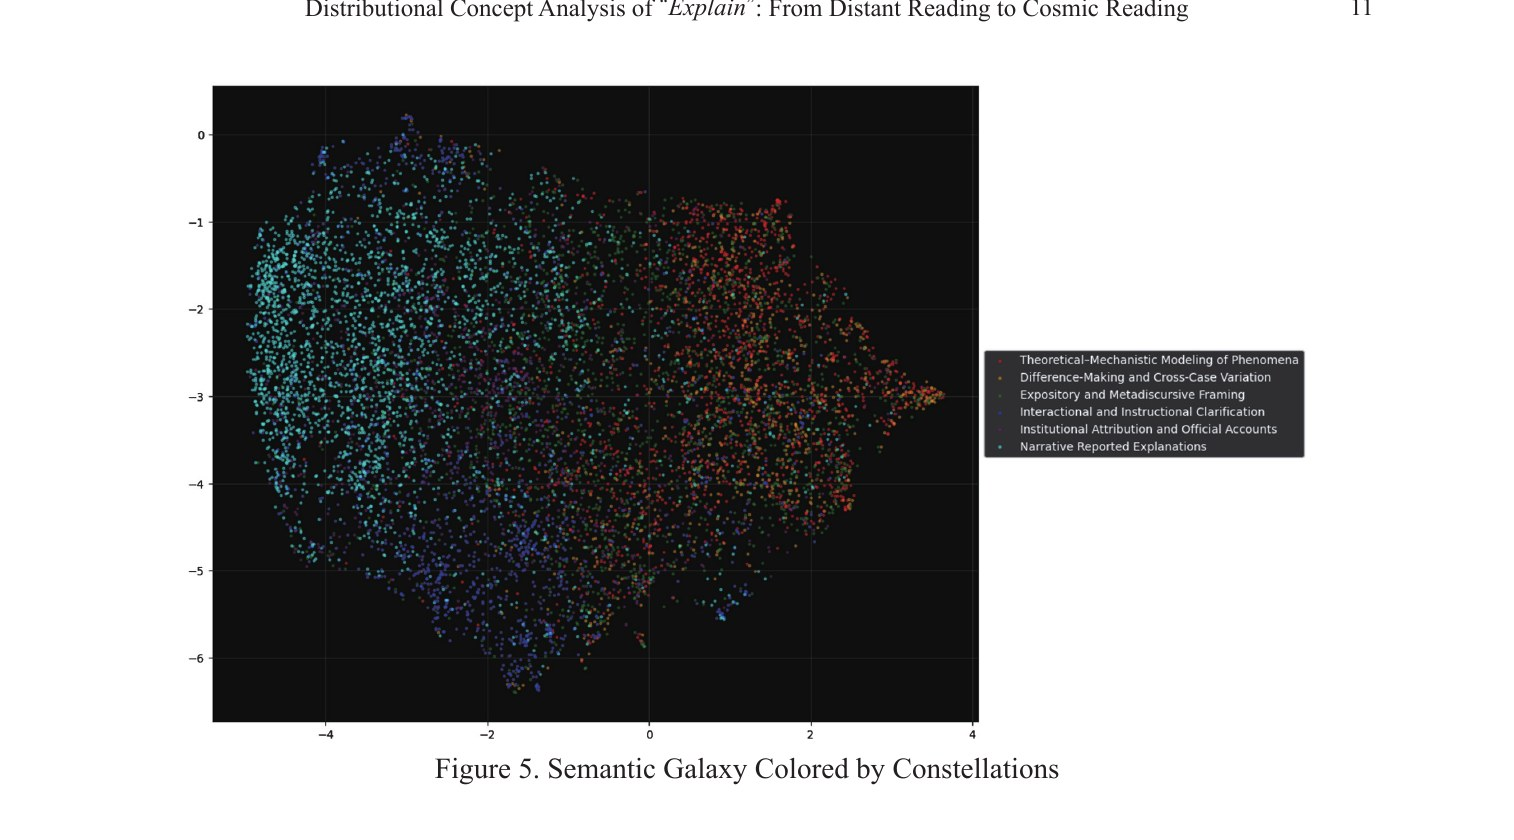
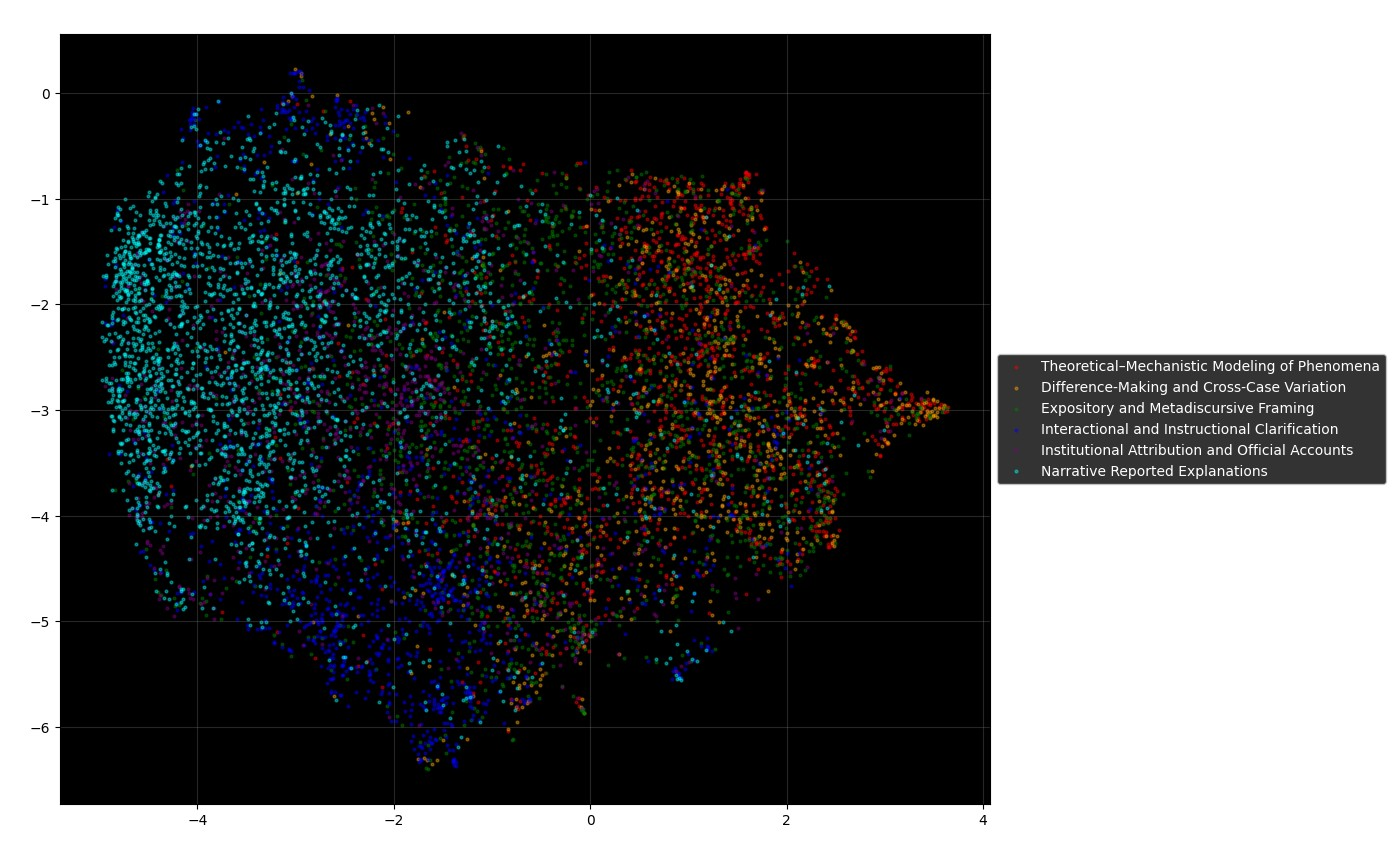
Expand DCA section in session 6 with v2 manuscript content
Integrate the v2 manuscript (Distributional Concept Analysis of "Explain"
- v2.docx) into section 6.10:

- Add an explicit theoretical-background box explaining the operational
  definition of "meaning" and "function" in distributional semantics,
  and the methodological shift from Moretti's distant reading (surface
  frequency/genre metrics) to cosmic reading (semantic topography in
  high-dim embedding space).
- Strengthen the research-question box with the four classical
  philosophical accounts of explanation (Hempel/Oppenheim, Salmon, van
  Fraassen, Machamer-Darden-Craver) and the bridge from Overton (2013).
- Rewrite the findings box around the permeability/continuity claim:
  the six constellations form a connected chain (scientific →
  metadiscursive → institutional → narrative), not isolated categories.
- Add a constellation-style summary box derived from GPT-5's
  constellation_styles output (lexical/grammatical patterns per
  constellation, with corpus examples).
- Add an anti-essentialist-implications box and pointer to future work
  on other explanation verbs (justify, clarify, describe).
- Append OSF data-and-reproducibility link from the manuscript.

Also swap the figure assets to the cleaner manuscript embeddings (no
PDF running headers) — fig1-fig6 now come from word/media of the v2
docx.

diff --git a/sessions/6.html b/sessions/6.html
@@ -702,7 +702,18 @@
 
           <div class="info-box mb-4">
             <p class="text-xs font-bold text-gray-700 mb-2">研究の問い</p>
-            <p class="text-sm text-gray-600">「説明する（explain）」とは、自然言語のなかで実際にどのような行為として現れているのか？　科学哲学では Hempel & Oppenheim の演繹的法則的モデル、Salmon の因果機構説、van Fraassen の語用論的説明論、Machamer–Darden–Craver のメカニズム説など多くの理論があるが、それらは現実の言語使用のどの部分を捉えているのか？──この問いに、コーパスデータから定量的に答えようとした研究です。</p>
+            <p class="text-sm text-gray-600">「説明する（explain）」とは、自然言語のなかで実際にどのような行為として現れているのか？　科学哲学では Hempel & Oppenheim (1948) の<strong class="text-gray-700">演繹的法則的モデル（deductive-nomological model）</strong>、Salmon (1984) の<strong class="text-gray-700">因果機構説（causal–mechanistic account）</strong>、van Fraassen (1980) の<strong class="text-gray-700">語用論的説明論（pragmatic theory）</strong>、Machamer–Darden–Craver (2000) の<strong class="text-gray-700">メカニズム説（mechanistic model）</strong>など多くの理論が提案されてきましたが、これらは「説明とは何を説明することか」についての前提が互いに異なり、自然言語のなかで <em>explain</em> がどう現れているかを統一的に捉えていません。Overton (2013) はこの問題意識から「<em>explain</em> in scientific discourse」というコーパス研究を行いましたが、対象は科学論文に限られていました。本研究はその対象を BNC 全体（科学・物語・制度・対話など全ジャンル）に拡張し、コーパスデータから<strong class="text-gray-800">定量的かつ分布的に</strong>説明実践の多様性を明らかにすることを目指します。</p>
+          </div>
+
+          <div class="info-box mb-4">
+            <p class="text-xs font-bold text-gray-700 mb-2">理論的背景：distant reading から cosmic reading へ</p>
+            <p class="text-sm text-gray-600 mb-2">本研究は<strong class="text-gray-700">分布意味論（distributional semantics, Lenci 2018）</strong>に基づき、語の「意味」と「機能」を次のように操作的に定義します：</p>
+            <ul class="text-sm text-gray-600 space-y-1 mb-2">
+              <li>・<strong class="text-gray-700">意味（meaning）</strong>＝高次元意味空間における<em>共起分布の総体</em>。すなわち、その語が現れる文脈の全体的なパターン。</li>
+              <li>・<strong class="text-gray-700">機能（function）</strong>＝特定の談話文脈における<em>語用論的・コミュニケーション的役割</em>。文脈化された埋め込みは、語が働く言説環境を構造的にエンコードする。</li>
+            </ul>
+            <p class="text-sm text-gray-600 mb-2">この立場は、Moretti (2013) の <strong class="text-gray-700">distant reading（遠読）</strong>──個々のテキストを精読するのではなく、大規模コーパスの構造的・分布的パターンを観察するアプローチ──の延長線上にあります。ただし distant reading は<strong class="text-gray-700">語の頻度やジャンル分布など表層的な指標</strong>に焦点を当てがちで、より深い「意味的分布」を捉えるには不十分でした。</p>
+            <p class="text-sm text-gray-600">本研究では、文単位の文脈化埋め込み・確率的トピックモデル・LLM を統合することで、語の「意味的地形（semantic topography）」そのものを観察可能にする手法を提案し、これを <strong class="text-gray-800">cosmic reading（宇宙的読解）</strong>と名づけます。テキストを「離れて眺める」だけでなく、テキストが埋め込まれた<strong class="text-gray-800">高次元意味空間を「銀河」として観察し、クラスター・帯・空隙・「星座」を読み解く</strong>──これが distant reading から cosmic reading への方法論的なシフトです。さらに Machery (2016) の <em>experimental philosophy of science</em>（実験的科学哲学）の主張、すなわち「概念使用の多様性は大規模な言語・行動データで実証されるべき」とも理論的に接続します。</p>
           </div>
 
           <div class="info-box mb-4">
@@ -769,8 +780,33 @@
           <p class="text-sm text-gray-600 leading-relaxed mb-4"><strong class="text-gray-800">Figure 6</strong> は、各 constellation に属する CTM トピックの重心を線で結ぶことで、銀河の中の「星座図」を描き出した図です。<strong class="text-gray-700">Theoretical–Mechanistic Modeling of Phenomena</strong>（赤）は右上に、<strong class="text-gray-700">Difference-Making and Cross-Case Variation</strong>（オレンジ）は中央やや右に、<strong class="text-gray-700">Expository and Metadiscursive Framing</strong>（黄緑）は中央に、<strong class="text-gray-700">Interactional and Instructional Clarification</strong>（水色）は下方に、<strong class="text-gray-700">Institutional Attribution and Official Accounts</strong>（マゼンタ）は中央上に、<strong class="text-gray-700">Narrative Reported Explanations</strong>（青）は左に、それぞれ「星座」のような位相をもって配置されます。Figure 5 で見えた<strong class="text-gray-800">「説明の 6 つの様式」</strong>が、互いに関係づけられた星座群として一望できるわけです。</p>
 
           <div class="info-box mb-4">
-            <p class="text-xs font-bold text-gray-700 mb-2">主な発見</p>
-            <p class="text-sm text-gray-600">6 つの図を通して浮かび上がるのは、<em>explain</em> が単一の本質を持つ語ではなく、<strong class="text-gray-800">6 つの説明モードからなる多中心的な意味エコロジー</strong>を形成しているということです。これは伝統的な科学哲学（演繹的法則的モデル、因果機構説、語用論的説明論など）が一語の中に同居していると想定してこなかった、より広い<strong class="text-gray-800">「説明実践のエコロジー」</strong>を可視化するものです。各 constellation は特徴的な語彙・文法・談話パターンをもち、ジャンル・社会的文脈と緊密に結びついていることが、図 4 のヒートマップや図 6 の星座配置から確認できます。</p>
+            <p class="text-xs font-bold text-gray-700 mb-2">主な発見：分離ではなく「浸透性のある連続体」</p>
+            <p class="text-sm text-gray-600 mb-2">6 つの図を通して浮かび上がるのは、<em>explain</em> が単一の本質を持つ語ではなく、<strong class="text-gray-800">6 つの説明モードからなる多中心的な意味エコロジー</strong>を形成しているということです。重要な発見は、6 つの constellation が<strong class="text-gray-800">鋭く分離した離散カテゴリではなく、滑らかに移行しあう「浸透性のある（permeable）連続体」</strong>を形成している点です。論文では次のような「連鎖」が指摘されています：</p>
+            <ul class="text-sm text-gray-600 space-y-1 mb-2">
+              <li>・<strong class="text-gray-700">科学的説明</strong> は自然に <strong class="text-gray-700">メタ言説的解説</strong> へとつながる（理論モデル → 教科書的説明）</li>
+              <li>・<strong class="text-gray-700">メタ言説的解説</strong> は <strong class="text-gray-700">制度的帰責</strong> へと移行する（学術的解説 → 公式説明）</li>
+              <li>・<strong class="text-gray-700">制度的帰責</strong> は <strong class="text-gray-700">物語的報告</strong> へと滑り込む（公式発言 → 報道叙述）</li>
+            </ul>
+            <p class="text-sm text-gray-600">この連続性こそが、<em>explain</em> が単なる多義語（polysemy）ではなく、<strong class="text-gray-800">社会的実践に根ざした分布的・多中心的な構造</strong>であることの証拠です。図 4 のヒートマップで象限間にゼロでない「中間値」のセルが多数あること、図 6 の星座が密接に配置されていることが、この「橋渡し」を視覚的に裏付けます。</p>
+          </div>
+
+          <div class="info-box mb-4">
+            <p class="text-xs font-bold text-gray-700 mb-2">constellation 別のスタイル特徴</p>
+            <p class="text-sm text-gray-600 mb-2">GPT-5 が各 constellation の代表文を分析して生成した<strong class="text-gray-700">スタイル要約（constellation_styles_gpt5.csv）</strong>からは、各 constellation が<strong class="text-gray-700">特徴的な語彙・文法・談話パターン</strong>をもつことが分かります：</p>
+            <ul class="text-sm text-gray-600 space-y-2">
+              <li>・<strong class="text-gray-700">Theoretical–Mechanistic</strong>：因果・モデルベースの語彙で自然・社会現象の根底にあるメカニズムを記述（"This theory <em>explains</em> the correlation between the two variables"）。</li>
+              <li>・<strong class="text-gray-700">Difference-Making</strong>：横断的な比較、説明の十分性、相互作用要因を強調する社会科学的論証。</li>
+              <li>・<strong class="text-gray-700">Expository / Metadiscursive</strong>：<em>define</em> / <em>explain</em> / <em>justify</em> といった<strong class="text-gray-700">談話組織化動詞</strong>を用いて読者を概念的領域に案内する学術・政策的散文。</li>
+              <li>・<strong class="text-gray-700">Interactional / Instructional</strong>：命令形・明確化要求を多用し、対人的に理解を調整する（"Please <em>explain</em> what you mean by that"）。</li>
+              <li>・<strong class="text-gray-700">Institutional Attribution</strong>：<em>explain</em> を<strong class="text-gray-700">報告動詞（reporting verb）</strong>として用い、公的説明責任を演じる（"The minister <em>explained</em> the government's new strategy"）。</li>
+              <li>・<strong class="text-gray-700">Narrative Reported</strong>：過去形・受動・完了相を用いて、物語世界内に登場人物の動機・意図・因果推論を埋め込む（"He <em>explained</em> that he had been waiting for hours"）。</li>
+            </ul>
+          </div>
+
+          <div class="info-box mb-4">
+            <p class="text-xs font-bold text-gray-700 mb-2">含意：「説明」の脱本質主義的再概念化</p>
+            <p class="text-sm text-gray-600 mb-2">これらの結果は、<strong class="text-gray-800">説明（explanation）を単一の論理形式・固定された辞書定義に還元しようとする伝統的な哲学的アプローチへの再考</strong>を促します。<em>explain</em> の自然言語使用は、科学的推論・制度的正当化・対人的調整・物語的意味づけ──いずれも「説明」と呼ばれる行為──を含む多中心的な現象であり、その意味は<strong class="text-gray-800">談話文脈に応じて連続的にシフトする</strong>のです。</p>
+            <p class="text-sm text-gray-600">この知見は、Machery (2016) の「実験的科学哲学」、Overton (2013) のコーパスベース科学的説明研究、そして Moretti (2013) の distant reading を統合的に拡張するものとして、<strong class="text-gray-700">説明研究・コーパス言語学・デジタル人文学・科学技術論（STS）</strong>に方法論的な貢献をもたらすと論文は主張します。今後の展開としては、<em>justify</em> / <em>clarify</em> / <em>describe</em> など他の説明関連動詞への適用、通時的分析、言語横断的比較、constellation 境界の動的遷移の解析などが提案されています。</p>
           </div>
 
           <div class="info-box mb-4">
@@ -783,7 +819,8 @@
             <p class="text-sm text-gray-600 mt-2">両者は対立するものではなく、<strong class="text-gray-800">補完的</strong>です。BP 分析は仮説検証と語義の理論化に強く、DCA は仮説のない探索と大規模データの可視化に強い。研究目的と問いの性質によって使い分けるのが理想です。</p>
           </div>
 
-          <p class="text-sm text-gray-600 leading-relaxed">論文ではこの手法を、Moretti (2013) の <em>distant reading</em>（遠読）を拡張した <em>cosmic reading</em>（宇宙的読解）として位置付けています。テキストを「離れて」読むだけでなく、テキストが埋め込まれた<strong class="text-gray-800">高次元意味空間そのものを「銀河」として観察する</strong>──Figure 1〜6 のような可視化は、デジタル人文学が単なるデータ集計から、データの幾何学的構造を読み解く新しい解釈実践へと進化していることを象徴しています。</p>
+          <p class="text-sm text-gray-600 leading-relaxed mb-3">論文ではこの手法を、Moretti (2013) の <em>distant reading</em>（遠読）を拡張した <em>cosmic reading</em>（宇宙的読解）として位置付けています。テキストを「離れて」読むだけでなく、テキストが埋め込まれた<strong class="text-gray-800">高次元意味空間そのものを「銀河」として観察し、そこに浮かぶ「星座」を読み解く</strong>──Figure 1〜6 のような可視化は、デジタル人文学が単なるデータ集計から、データの幾何学的構造を解釈する新しい読解実践へと進化していることを象徴しています。</p>
+          <p class="text-xs text-gray-500 leading-relaxed">📦 <strong>データと再現性</strong>：本研究で用いたコードと中間データ（PCA・CTM・GPT-5 ラベル等）はすべて Open Science Framework（OSF）上で公開されており、誰でも追試可能です：<br><a href="https://osf.io/e95h3/overview?view_only=2bc76853cfb641aeb46161382a4d70e7" class="text-violet-500 hover:underline break-all" target="_blank" rel="noopener">https://osf.io/e95h3/overview?view_only=2bc76853cfb641aeb46161382a4d70e7</a></p>
         </div>
       </div>
     </div>
